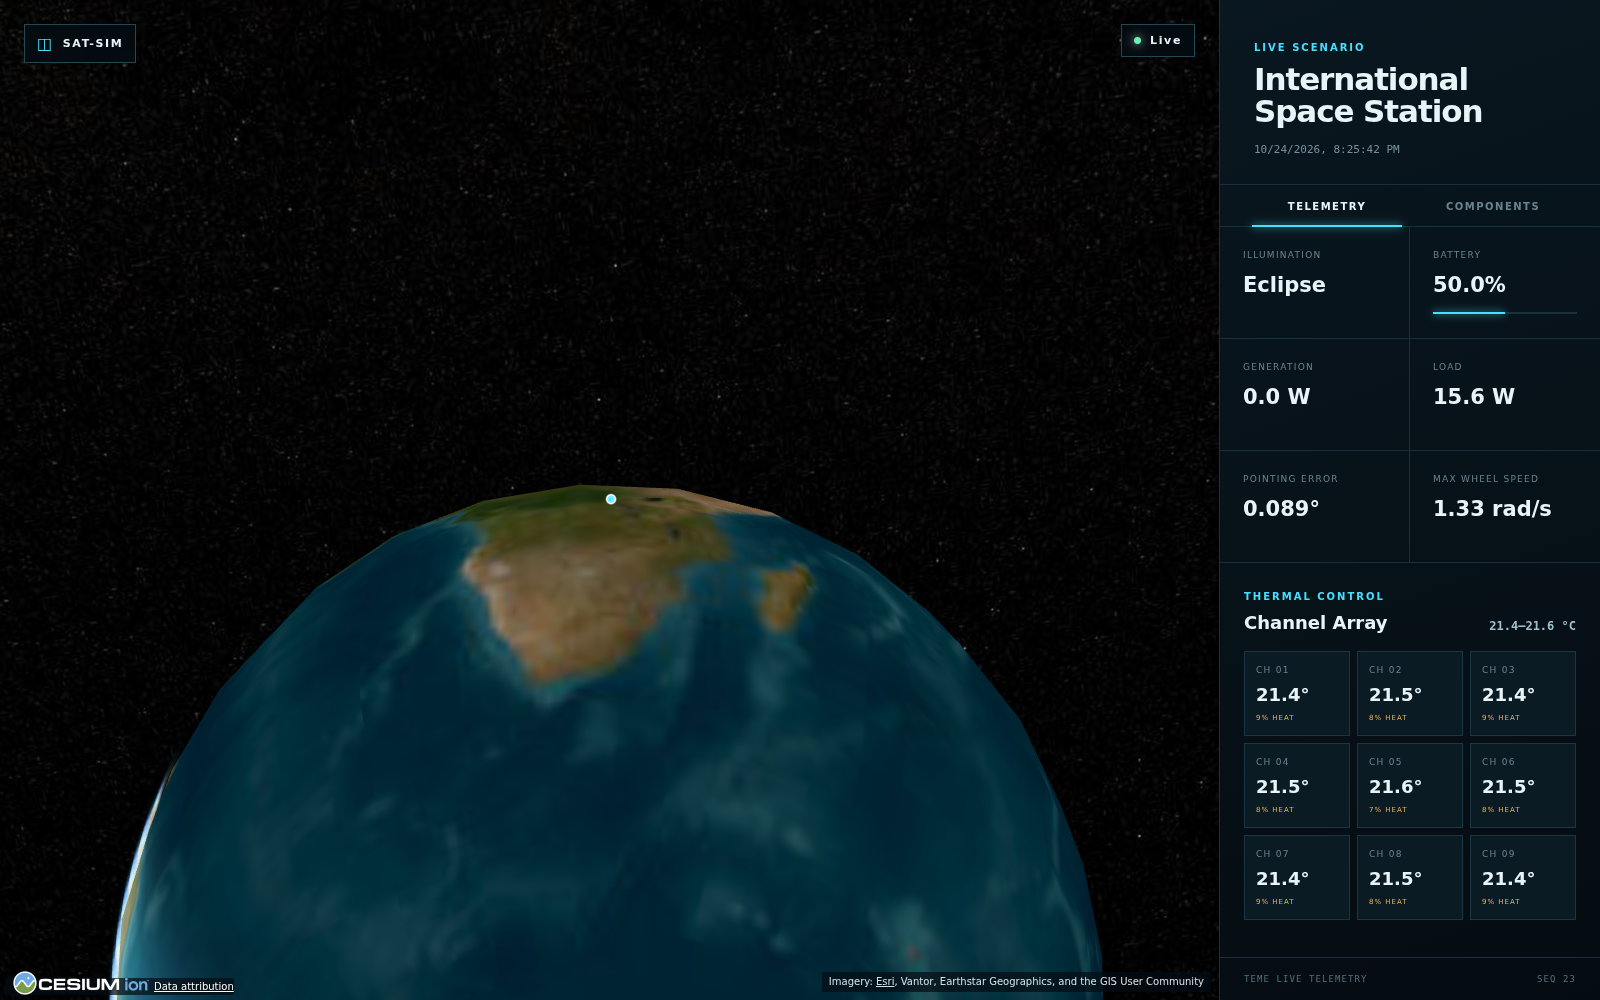
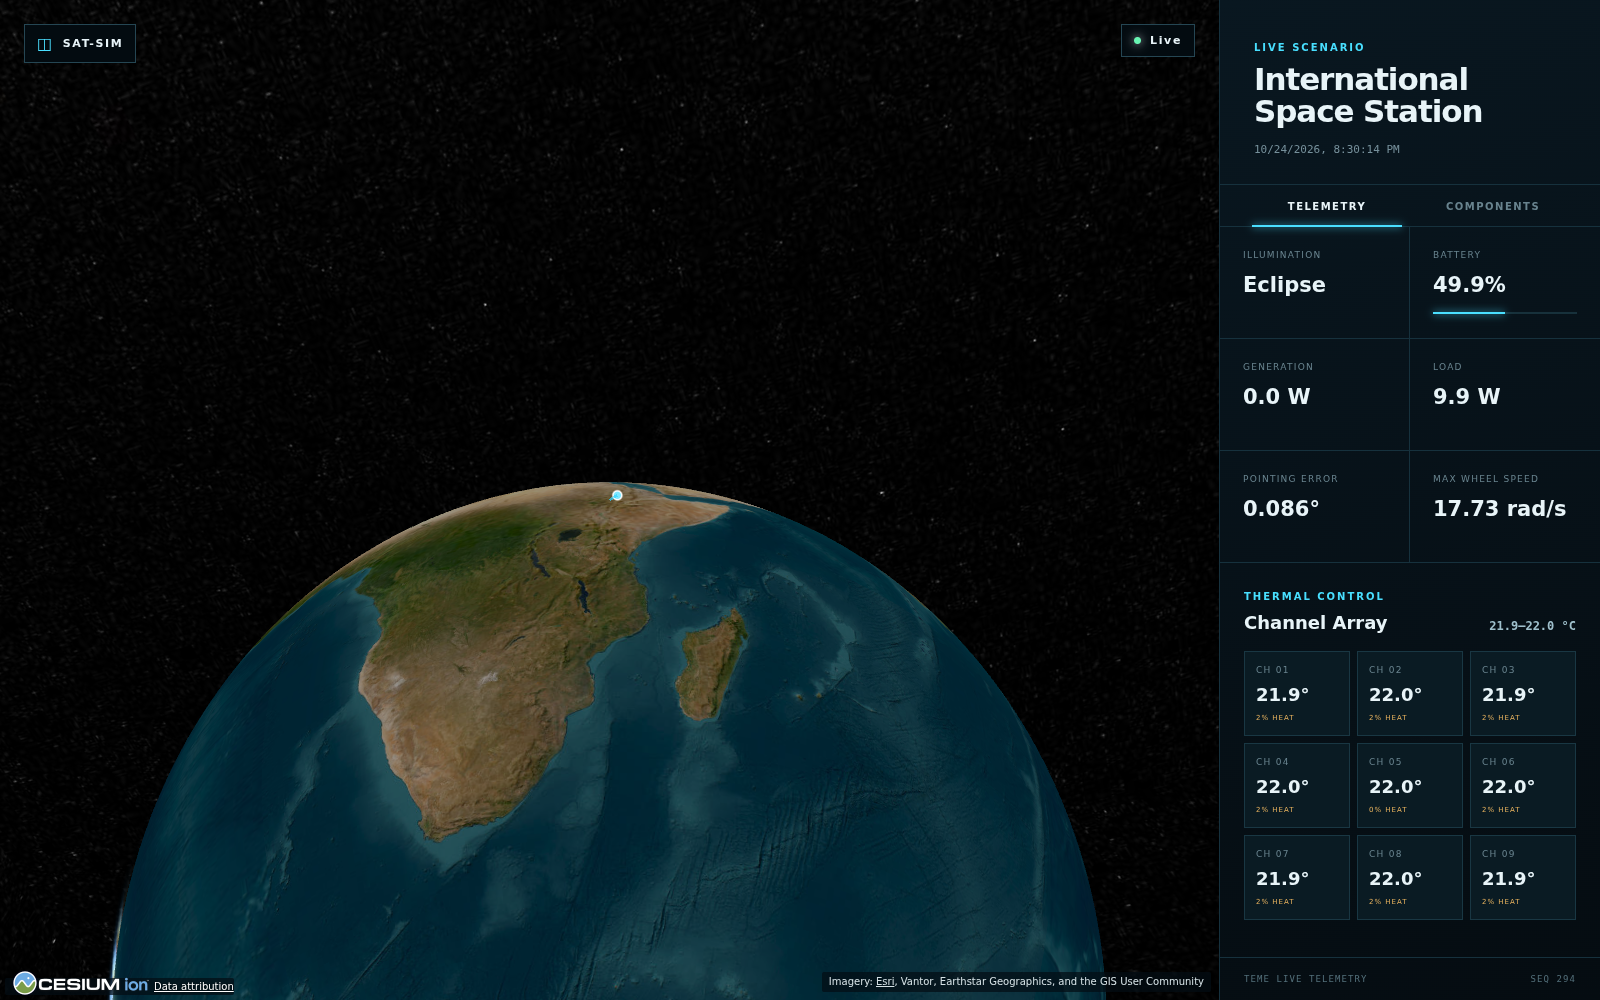
Refresh dashboard screenshot after imagery loads

diff --git a/README.md b/README.md
@@ -3,7 +3,7 @@
 A runnable spacecraft simulator built on a simple entity-component system (ECS),
 with a live ISS scenario and Cesium telemetry dashboard.
 
-![Live ISS simulation dashboard after 10 seconds](media/iss-dashboard.png)
+![Live ISS simulation dashboard after 20 seconds](media/iss-dashboard.png)
 
 ## Requirements
 
